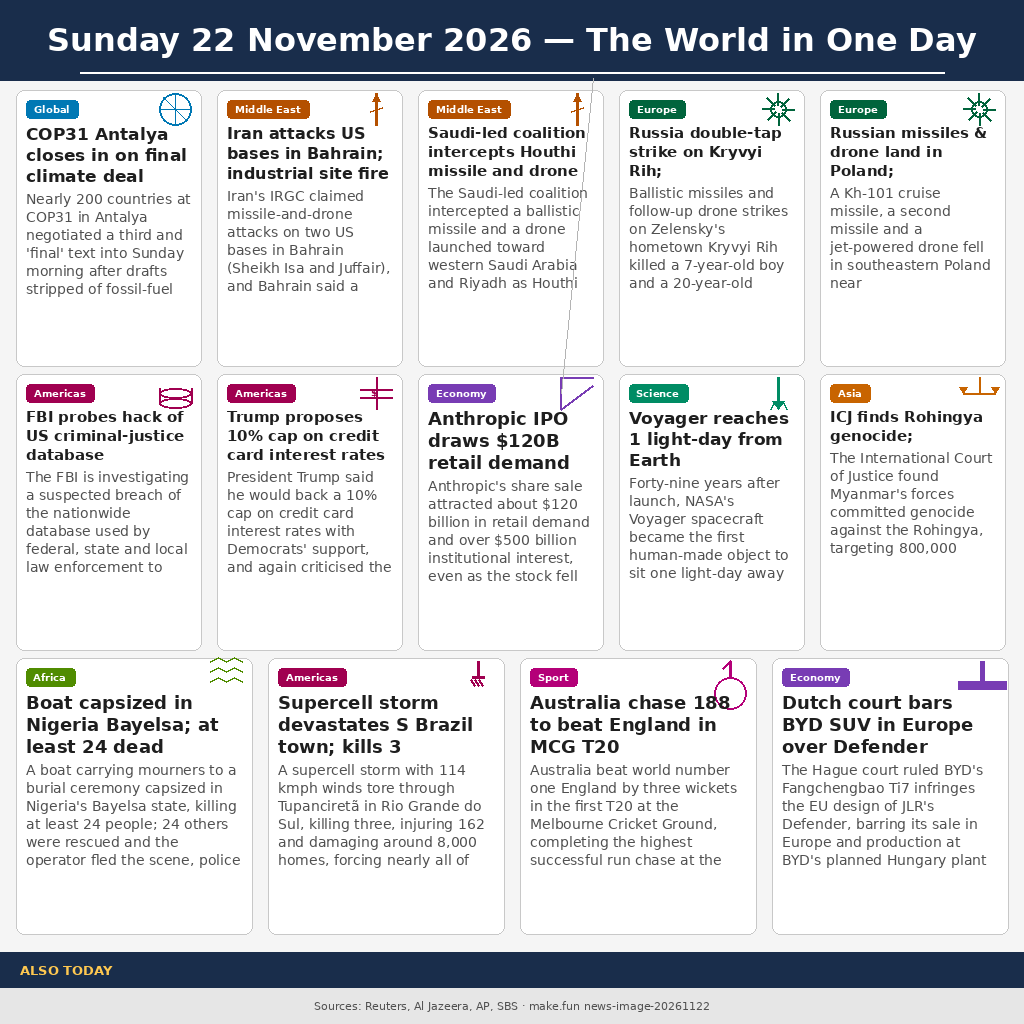
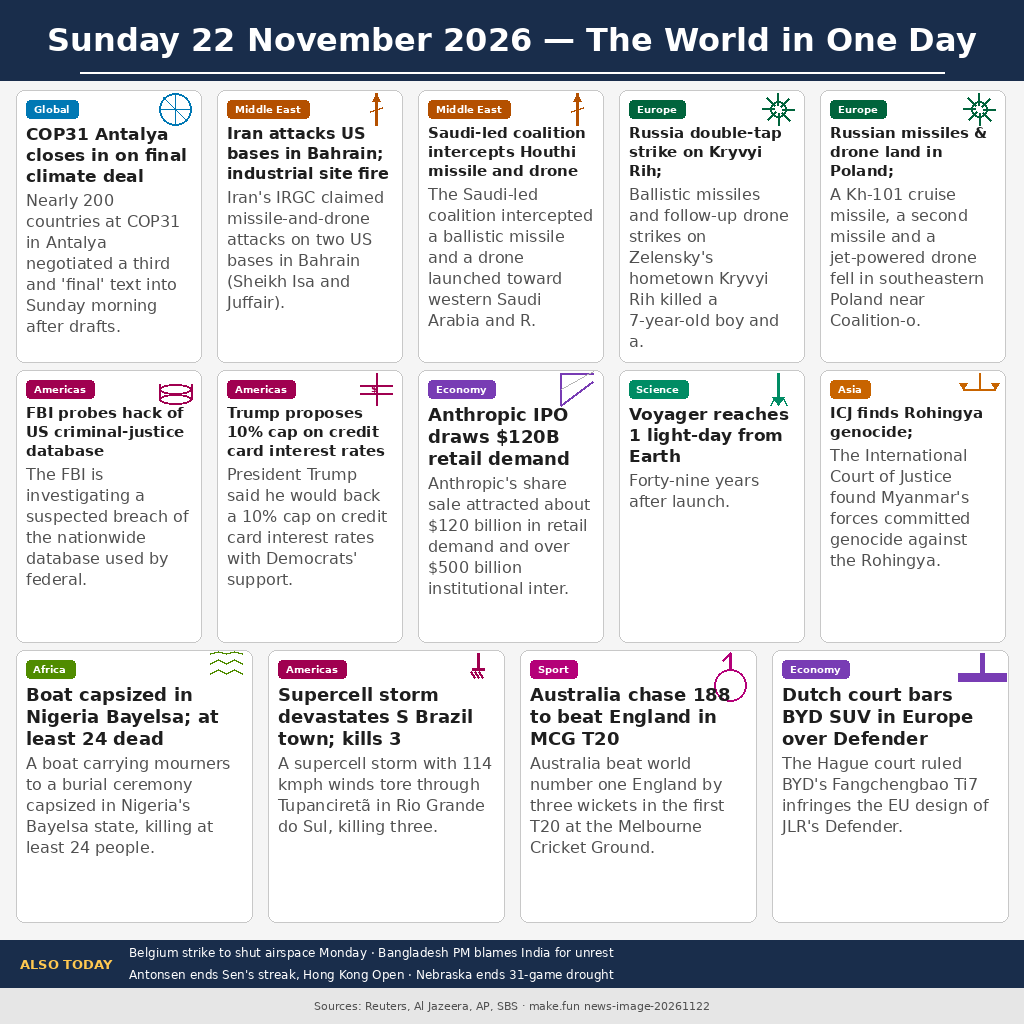
infographic: complete facts, fill also-today band, fix stray line

diff --git a/draw.py b/draw.py
@@ -6,6 +6,7 @@ Renders to entry.png at exactly 1024x1024.
 
 from PIL import Image, ImageDraw, ImageFont
 import json
+import re
 
 # Canvas
 W, H = 1024, 1024
@@ -27,6 +28,7 @@ font_headline_15 = load_font("/usr/share/fonts/truetype/dejavu/DejaVuSans-Bold.t
 font_fact_16 = load_font("/usr/share/fonts/truetype/dejavu/DejaVuSans.ttf", 16)
 font_fact_15 = load_font("/usr/share/fonts/truetype/dejavu/DejaVuSans.ttf", 15)
 font_fact_14 = load_font("/usr/share/fonts/truetype/dejavu/DejaVuSans.ttf", 14)
+font_fact_13 = load_font("/usr/share/fonts/truetype/dejavu/DejaVuSans.ttf", 13)
 font_region = load_font("/usr/share/fonts/truetype/dejavu/DejaVuSans-Bold.ttf", 10)
 font_ticker = load_font("/usr/share/fonts/truetype/dejavu/DejaVuSans-Bold.ttf", 13)
 font_ticker_text = load_font("/usr/share/fonts/truetype/dejavu/DejaVuSans.ttf", 12)
@@ -159,39 +161,90 @@ def truncate_at_clauses(draw, text, font, max_width, max_lines):
     
     return text[:50]
 
-def fit_fact(draw, text, max_width, max_lines):
-    """Fit fact text, trying fonts from 16 down to 14."""
+def build_fact_from_summary(draw, summary, font, max_width, max_lines, max_chars=110):
+    """
+    Build a complete fact from summary_1line:
+    - Split on clause boundaries (; then ,) to get segments
+    - Build fact from complete segments up to ~110 chars
+    - Ensure it ends with a period
+    - Verify with textbbox it fits in max_lines
+    - If not, shorten at segment boundaries
+    """
+    # First split on semicolons (strong boundaries)
+    segments = re.split(r'(?<=;)\s+', summary.strip())
+    
+    # If only one segment and it's long, split on commas
+    if len(segments) == 1 and len(segments[0]) > max_chars:
+        segments = re.split(r'(?<=,)\s+', segments[0])
+    
+    # Build fact by adding segments until we hit max_chars
+    fact_parts = []
+    for seg in segments:
+        test = " ".join(fact_parts + [seg]).strip()
+        if len(test) <= max_chars:
+            fact_parts.append(seg)
+        else:
+            break
+    
+    if not fact_parts:
+        # Fallback: truncate at max_chars and find last STRONG punctuation
+        if len(summary) > max_chars:
+            truncated = summary[:max_chars]
+            last_punct = max(truncated.rfind('.'), truncated.rfind('!'), truncated.rfind('?'))
+            if last_punct > max_chars * 0.4:
+                fact = truncated[:last_punct+1].strip()
+            else:
+                # No strong punctuation, find any punctuation
+                last_punct = max(truncated.rfind(';'), truncated.rfind(':'), truncated.rfind(','))
+                if last_punct > max_chars * 0.4:
+                    fact = truncated[:last_punct].strip() + "."
+                else:
+                    fact = truncated.strip() + "."
+        else:
+            fact = summary.strip()
+    else:
+        fact = " ".join(fact_parts).strip()
+    
+    # Ensure it ends with a period (replace trailing comma/semicolon/colon with period)
+    fact = fact.rstrip()
+    if fact.endswith((',', ';', ':')):
+        fact = fact[:-1] + "."
+    elif not fact.endswith(('.', '!', '?')):
+        fact = fact + "."
+    
+    # Now verify it fits with textbbox, trying fonts from 16 down to 13
     fonts = [
         (16, font_fact_16, 21),
         (15, font_fact_15, 19),
         (14, font_fact_14, 18),
+        (13, font_fact_13, 17),
     ]
-    for size, font, line_h in fonts:
-        if can_text_fit(draw, text, font, max_width, max_lines):
-            lines = wrap_text_full(draw, text, font, max_width, max_lines)
-            return lines, font, line_h
-    # Fallback
-    lines = wrap_text_full(draw, text, font_fact_14, max_width, max_lines)
-    return lines, font_fact_14, 18
-
-def clean_fact(text):
-    """Remove trailing dangling & or , and ensure complete thought."""
-    text = text.strip()
-    # Remove trailing & or ,
-    while text.endswith(('&', ',', ';')):
-        text = text[:-1].strip()
-    # If it ends mid-sentence without punctuation, find last comma/semicolon to end cleanly
-    if text and text[-1] not in '.!?':
-        last_comma = text.rfind(',')
-        last_semi = text.rfind(';')
-        cut = max(last_comma, last_semi)
-        if cut > len(text) * 0.6:  # Only cut if we keep most of the text
-            text = text[:cut].strip()
-    return text
+    
+    for size, f, line_h in fonts:
+        if can_text_fit(draw, fact, f, max_width, max_lines):
+            lines = wrap_text_full(draw, fact, f, max_width, max_lines)
+            return lines, f, line_h
+    
+    # If still doesn't fit, shorten at segment boundaries until it does
+    while fact_parts:
+        fact = " ".join(fact_parts).strip()
+        # Ensure period ending
+        if fact.endswith((',', ';', ':')):
+            fact = fact[:-1] + "."
+        elif not fact.endswith(('.', '!', '?')):
+            fact = fact + "."
+        if can_text_fit(draw, fact, font_fact_13, max_width, max_lines):
+            lines = wrap_text_full(draw, fact, font_fact_13, max_width, max_lines)
+            return lines, font_fact_13, 17
+        fact_parts.pop()
+    
+    # Ultimate fallback
+    fallback = "Developing story."
+    lines = wrap_text_full(draw, fallback, font_fact_13, max_width, max_lines)
+    return lines, font_fact_13, 17
 
 def shorten_headline(text):
     """Shorten headline by dropping trailing clauses at comma/colon, never mid-word."""
-    # Pre-shortened headlines that fit well in 3 lines at 15pt within 165px
     replacements = {
         "COP31 in Antalya closes in on final climate deal after overtime": "COP31 Antalya closes in on final climate deal",
         "Iran attacks US bases in Bahrain; industrial site fire": "Iran attacks US bases in Bahrain; industrial site fire",
@@ -227,73 +280,110 @@ def get_symbol(headline, region):
     if "byd" in h or "court" in h or "defender" in h: return "gavel"
     return "pin"
 
-def draw_symbol(draw, cx, cy, symbol_type, color, size=32):
+def draw_symbol_clipped(draw, cx, cy, symbol_type, color, size, card_rect):
+    """
+    Draw symbol with all coordinates clipped to card_rect.
+    card_rect = (x1, y1, x2, y2) - the card's bounding box.
+    """
+    # Clip helper
+    def clip_x(x):
+        return max(card_rect[0], min(card_rect[2], x))
+    def clip_y(y):
+        return max(card_rect[1], min(card_rect[3], y))
+    def clip_pt(pt):
+        return (clip_x(pt[0]), clip_y(pt[1]))
+    
     s = size // 2
+    cx_c = clip_x(cx)
+    cy_c = clip_y(cy)
+    
     if symbol_type == "globe":
-        draw.ellipse([cx-s, cy-s, cx+s, cy+s], outline=color, width=2)
-        draw.line([(cx, cy-s), (cx, cy+s)], fill=color, width=1)
-        draw.line([(cx-s, cy), (cx+s, cy)], fill=color, width=1)
-        draw.line([(cx-s*0.7, cy-s*0.7), (cx+s*0.7, cy+s*0.7)], fill=color, width=1)
+        # Ellipse and cross lines - clip each coordinate
+        x1, y1 = clip_x(cx_c - s), clip_y(cy_c - s)
+        x2, y2 = clip_x(cx_c + s), clip_y(cy_c + s)
+        draw.ellipse([x1, y1, x2, y2], outline=color, width=2)
+        draw.line([clip_pt((cx_c, cy_c - s)), clip_pt((cx_c, cy_c + s))], fill=color, width=1)
+        draw.line([clip_pt((cx_c - s, cy_c)), clip_pt((cx_c + s, cy_c))], fill=color, width=1)
+        draw.line([clip_pt((cx_c - s*0.7, cy_c - s*0.7)), clip_pt((cx_c + s*0.7, cy_c + s*0.7))], fill=color, width=1)
     elif symbol_type == "missile":
-        draw.line([(cx, cy-s), (cx, cy+s)], fill=color, width=3)
-        draw.polygon([(cx, cy-s), (cx-4, cy-s+8), (cx+4, cy-s+8)], fill=color)
-        draw.line([(cx-6, cy+2), (cx+6, cy-2)], fill=color, width=2)
+        # Vertical line
+        draw.line([clip_pt((cx_c, cy_c - s)), clip_pt((cx_c, cy_c + s))], fill=color, width=3)
+        # Tip triangle
+        p1 = clip_pt((cx_c, cy_c - s))
+        p2 = clip_pt((cx_c - 4, cy_c - s + 8))
+        p3 = clip_pt((cx_c + 4, cy_c - s + 8))
+        draw.polygon([p1, p2, p3], fill=color)
+        # Diagonal line - THIS WAS THE STRAY LINE - now clipped
+        draw.line([clip_pt((cx_c - 6, cy_c + 2)), clip_pt((cx_c + 6, cy_c - 2))], fill=color, width=2)
     elif symbol_type == "explosion":
         import math
         for angle in [0, 45, 90, 135, 180, 225, 270, 315]:
             rad = math.radians(angle)
-            x1 = cx + int(s * 0.3 * math.cos(rad))
-            y1 = cy + int(s * 0.3 * math.sin(rad))
-            x2 = cx + int(s * math.cos(rad))
-            y2 = cy + int(s * math.sin(rad))
-            draw.line([(x1, y1), (x2, y2)], fill=color, width=2)
-        draw.ellipse([cx-s//2, cy-s//2, cx+s//2, cy+s//2], outline=color, width=2)
+            x1 = cx_c + int(s * 0.3 * math.cos(rad))
+            y1 = cy_c + int(s * 0.3 * math.sin(rad))
+            x2 = cx_c + int(s * math.cos(rad))
+            y2 = cy_c + int(s * math.sin(rad))
+            draw.line([clip_pt((x1, y1)), clip_pt((x2, y2))], fill=color, width=2)
+        draw.ellipse([clip_x(cx_c - s//2), clip_y(cy_c - s//2), clip_x(cx_c + s//2), clip_y(cy_c + s//2)], outline=color, width=2)
     elif symbol_type == "shield":
-        pts = [(cx, cy-s), (cx+s, cy-s//2), (cx+s, cy+s//2), (cx, cy+s), (cx-s, cy+s//2), (cx-s, cy-s//2)]
+        pts = [
+            clip_pt((cx_c, cy_c - s)),
+            clip_pt((cx_c + s, cy_c - s//2)),
+            clip_pt((cx_c + s, cy_c + s//2)),
+            clip_pt((cx_c, cy_c + s)),
+            clip_pt((cx_c - s, cy_c + s//2)),
+            clip_pt((cx_c - s, cy_c - s//2)),
+        ]
         draw.polygon(pts, outline=color, width=2)
-        draw.line([(cx, cy-s//2), (cx, cy+s//2)], fill=color, width=1)
+        draw.line([clip_pt((cx_c, cy_c - s//2)), clip_pt((cx_c, cy_c + s//2))], fill=color, width=1)
     elif symbol_type == "database":
-        draw.ellipse([cx-s, cy-s//3, cx+s, cy+s//3], outline=color, width=2)
-        draw.line([(cx-s, cy-s//3), (cx-s, cy+s//3*2)], fill=color, width=2)
-        draw.line([(cx+s, cy-s//3), (cx+s, cy+s//3*2)], fill=color, width=2)
-        draw.ellipse([cx-s, cy+s//3*2-s//3, cx+s, cy+s//3*2+s//3], outline=color, width=2)
+        draw.ellipse([clip_x(cx_c - s), clip_y(cy_c - s//3), clip_x(cx_c + s), clip_y(cy_c + s//3)], outline=color, width=2)
+        draw.line([clip_pt((cx_c - s, cy_c - s//3)), clip_pt((cx_c - s, cy_c + s//3*2))], fill=color, width=2)
+        draw.line([clip_pt((cx_c + s, cy_c - s//3)), clip_pt((cx_c + s, cy_c + s//3*2))], fill=color, width=2)
+        draw.ellipse([clip_x(cx_c - s), clip_y(cy_c + s//3*2 - s//3), clip_x(cx_c + s), clip_y(cy_c + s//3*2 + s//3)], outline=color, width=2)
     elif symbol_type == "money":
-        draw.line([(cx, cy-s), (cx, cy+s)], fill=color, width=2)
-        draw.line([(cx-s, cy-4), (cx+s, cy-4)], fill=color, width=2)
-        draw.line([(cx-s, cy+4), (cx+s, cy+4)], fill=color, width=2)
-        draw.text((cx-2, cy-1), "$", font=font_region, fill=color, anchor="mm")
+        draw.line([clip_pt((cx_c, cy_c - s)), clip_pt((cx_c, cy_c + s))], fill=color, width=2)
+        draw.line([clip_pt((cx_c - s, cy_c - 4)), clip_pt((cx_c + s, cy_c - 4))], fill=color, width=2)
+        draw.line([clip_pt((cx_c - s, cy_c + 4)), clip_pt((cx_c + s, cy_c + 4))], fill=color, width=2)
+        draw.text((clip_x(cx_c - 2), clip_y(cy_c - 1)), "$", font=font_region, fill=color, anchor="mm")
     elif symbol_type == "chart":
-        draw.line([(cx-s, cy+s), (cx-s, cy-s), (cx+s, cy-s)], fill=color, width=2)
-        draw.line([(cx-s, cy+s), (cx+s, cy-s*0.5)], fill=color, width=2)
-        draw.line([(cx-s, cy), (cx+s, cy*0.2)], fill=(180,180,180), width=1)
+        draw.line([clip_pt((cx_c - s, cy_c + s)), clip_pt((cx_c - s, cy_c - s)), clip_pt((cx_c + s, cy_c - s))], fill=color, width=2)
+        draw.line([clip_pt((cx_c - s, cy_c + s)), clip_pt((cx_c + s, cy_c - s*0.5))], fill=color, width=2)
+        draw.line([clip_pt((cx_c - s, cy_c)), clip_pt((cx_c + s, cy_c * 0.2))], fill=(180,180,180), width=1)
     elif symbol_type == "rocket":
-        draw.line([(cx, cy-s), (cx, cy+s//2)], fill=color, width=3)
-        draw.polygon([(cx-6, cy+s//2), (cx+6, cy+s//2), (cx, cy+s)], fill=color)
-        draw.line([(cx-4, cy+s//2), (cx-8, cy+s)], fill=color, width=2)
-        draw.line([(cx+4, cy+s//2), (cx+8, cy+s)], fill=color, width=2)
+        draw.line([clip_pt((cx_c, cy_c - s)), clip_pt((cx_c, cy_c + s//2))], fill=color, width=3)
+        draw.polygon([clip_pt((cx_c - 6, cy_c + s//2)), clip_pt((cx_c + 6, cy_c + s//2)), clip_pt((cx_c, cy_c + s))], fill=color)
+        draw.line([clip_pt((cx_c - 4, cy_c + s//2)), clip_pt((cx_c - 8, cy_c + s))], fill=color, width=2)
+        draw.line([clip_pt((cx_c + 4, cy_c + s//2)), clip_pt((cx_c + 8, cy_c + s))], fill=color, width=2)
     elif symbol_type == "scale":
-        draw.line([(cx-s, cy), (cx+s, cy)], fill=color, width=2)
-        draw.line([(cx, cy-s), (cx, cy)], fill=color, width=2)
-        draw.polygon([(cx-s, cy), (cx-s+4, cy-6), (cx-s-4, cy-6)], fill=color)
-        draw.polygon([(cx+s, cy), (cx+s-4, cy-6), (cx+s+4, cy-6)], fill=color)
+        draw.line([clip_pt((cx_c - s, cy_c)), clip_pt((cx_c + s, cy_c))], fill=color, width=2)
+        draw.line([clip_pt((cx_c, cy_c - s)), clip_pt((cx_c, cy_c))], fill=color, width=2)
+        draw.polygon([clip_pt((cx_c - s, cy_c)), clip_pt((cx_c - s + 4, cy_c - 6)), clip_pt((cx_c - s - 4, cy_c - 6))], fill=color)
+        draw.polygon([clip_pt((cx_c + s, cy_c)), clip_pt((cx_c + s - 4, cy_c - 6)), clip_pt((cx_c + s + 4, cy_c - 6))], fill=color)
     elif symbol_type == "waves":
         for i in range(3):
-            y_off = cy - s + i * (2*s//3)
-            draw.line([(cx-s, y_off), (cx-s//2, y_off-4), (cx, y_off), (cx+s//2, y_off-4), (cx+s, y_off)], fill=color, width=2)
+            y_off = cy_c - s + i * (2*s//3)
+            draw.line([
+                clip_pt((cx_c - s, y_off)),
+                clip_pt((cx_c - s//2, y_off - 4)),
+                clip_pt((cx_c, y_off)),
+                clip_pt((cx_c + s//2, y_off - 4)),
+                clip_pt((cx_c + s, y_off))
+            ], fill=color, width=2)
     elif symbol_type == "storm":
-        draw.line([(cx, cy-s), (cx, cy)], fill=color, width=3)
-        draw.line([(cx-6, cy), (cx+6, cy)], fill=color, width=3)
+        draw.line([clip_pt((cx_c, cy_c - s)), clip_pt((cx_c, cy_c))], fill=color, width=3)
+        draw.line([clip_pt((cx_c - 6, cy_c)), clip_pt((cx_c + 6, cy_c))], fill=color, width=3)
         for i in range(3):
-            draw.line([(cx-8+i*4, cy+2), (cx-4+i*4, cy+8)], fill=color, width=2)
+            draw.line([clip_pt((cx_c - 8 + i*4, cy_c + 2)), clip_pt((cx_c - 4 + i*4, cy_c + 8))], fill=color, width=2)
     elif symbol_type == "cricket":
-        draw.ellipse([cx-s, cy, cx+s, cy+2*s], outline=color, width=2)
-        draw.line([(cx, cy), (cx, cy-s)], fill=color, width=3)
-        draw.line([(cx, cy-s), (cx-8, cy-s//2)], fill=color, width=2)
+        draw.ellipse([clip_x(cx_c - s), clip_y(cy_c), clip_x(cx_c + s), clip_y(cy_c + 2*s)], outline=color, width=2)
+        draw.line([clip_pt((cx_c, cy_c)), clip_pt((cx_c, cy_c - s))], fill=color, width=3)
+        draw.line([clip_pt((cx_c, cy_c - s)), clip_pt((cx_c - 8, cy_c - s//2))], fill=color, width=2)
     elif symbol_type == "gavel":
-        draw.rectangle([cx-2, cy-s, cx+2, cy+s//2], fill=color)
-        draw.rectangle([cx-s*1.5, cy+s//2-4, cx+s*1.5, cy+s//2+4], fill=color)
+        draw.rectangle([clip_x(cx_c - 2), clip_y(cy_c - s), clip_x(cx_c + 2), clip_y(cy_c + s//2)], fill=color)
+        draw.rectangle([clip_x(cx_c - s*1.5), clip_y(cy_c + s//2 - 4), clip_x(cx_c + s*1.5), clip_y(cy_c + s//2 + 4)], fill=color)
     else:
-        draw.ellipse([cx-s//2, cy-s//2, cx+s//2, cy+s//2], fill=color)
+        draw.ellipse([clip_x(cx_c - s//2), clip_y(cy_c - s//2), clip_x(cx_c + s//2), clip_y(cy_c + s//2)], fill=color)
 
 # Load stories
 with open("/root/makefun/news-image-20261122/data-news.json") as f:
@@ -303,7 +393,7 @@ stories = []
 for s in raw_stories:
     stories.append({
         "headline": shorten_headline(s["headline"]),
-        "fact": clean_fact(s["summary_1line"]),
+        "summary_1line": s["summary_1line"],
         "symbol": get_symbol(s["headline"], s["region"]),
         "region": s["region"],
     })
@@ -311,7 +401,7 @@ for s in raw_stories:
 # Layout dimensions
 masthead_h = 80
 footer_h = 36
-ticker_h = 36
+ticker_h = 48  # Increased to accommodate two rows if needed
 margin_x = 16
 margin_y = 8
 
@@ -370,11 +460,12 @@ for row_idx, num_cards in enumerate(row_counts):
         draw_rounded_rect(draw, (inner_x, inner_y, inner_x + tag_w, inner_y + tag_h), 4, fill=rcolor)
         draw.text((inner_x + tag_w // 2, inner_y + tag_h // 2), tag_text, font=font_region, fill=(255,255,255), anchor="mm")
         
-        # Symbol (top-right) - larger 32px
+        # Symbol (top-right) - larger 32px, clipped to card
         sym_size = 32
         sym_x = x + card_w - pad - sym_size // 2
         sym_y = y + pad + tag_h // 2
-        draw_symbol(draw, sym_x, sym_y, story["symbol"], rcolor, size=sym_size)
+        card_rect = (x + 1, y + 1, x + card_w - 1, y + card_h - 1)  # Card bounds with 1px margin
+        draw_symbol_clipped(draw, sym_x, sym_y, story["symbol"], rcolor, size=sym_size, card_rect=card_rect)
         
         # Headline area - starts below tag
         headline_y = inner_y + tag_h + 6
@@ -387,28 +478,30 @@ for row_idx, num_cards in enumerate(row_counts):
         for li, line in enumerate(headline_lines):
             draw.text((inner_x, headline_y + li * line_h), line, font=used_font, fill=COLOR_TEXT)
         
-        # Fact area - use remaining space, up to 6 lines
+        # Fact area - use remaining space, up to 8 lines
         fact_y = headline_y + len(headline_lines) * line_h + 4
         fact_max_h = inner_y + inner_h - fact_y
-        max_fact_lines = min(6, max(2, fact_max_h // 20))
+        max_fact_lines = min(8, max(2, fact_max_h // 18))
         
-        # Fit fact in available lines, font 16 down to 14
-        fact_lines, fact_font, fact_line_h = fit_fact(draw, story["fact"], headline_max_w, max_fact_lines)
+        # Build fact from summary_1line - complete clauses, ~110 chars, verify fit
+        fact_lines, fact_font, fact_line_h = build_fact_from_summary(
+            draw, story["summary_1line"], font_fact_16, headline_max_w, max_fact_lines
+        )
         
         for li, line in enumerate(fact_lines):
             draw.text((inner_x, fact_y + li * fact_line_h), line, font=fact_font, fill=COLOR_TEXT_MUTED)
         
         card_index += 1
 
-# Ticker band: "ALSO TODAY" + 4 one-liners
+# Ticker band: "ALSO TODAY" + 4 one-liners (may use 1 or 2 rows)
 ticker_y = H - footer_h - ticker_h
 draw_rounded_rect(draw, (0, ticker_y, W, ticker_y + ticker_h), 0, fill=COLOR_TICKER_BG)
 
 ticker_items = [
-    "Belgium national strike to shut airspace Monday",
-    "Bangladesh PM blames India for fresh unrest",
-    "Antonsen ends Sen's 13-match streak, Hong Kong Open",
-    "Nebraska ends 31-game top-25 drought, beats Ohio State"
+    "Belgium strike to shut airspace Monday",
+    "Bangladesh PM blames India for unrest",
+    "Antonsen ends Sen's streak, Hong Kong Open",
+    "Nebraska ends 31-game drought"
 ]
 
 label = "ALSO TODAY"
@@ -418,15 +511,29 @@ label_x = 20
 label_y = ticker_y + ticker_h // 2
 draw.text((label_x, label_y), label, font=font_ticker, fill=COLOR_TICKER_LABEL, anchor="lm")
 
-# Items to the right of label
+# Items to the right of label - try one row, fallback to two rows
 items_text = " · ".join(ticker_items)
 items_x = label_x + label_w + 16
 items_max_w = W - items_x - 20
 
-# Fit items in one line
 if can_text_fit(draw, items_text, font_ticker_text, items_max_w, 1):
     items_lines = wrap_text_full(draw, items_text, font_ticker_text, items_max_w, 1)
     draw.text((items_x, label_y), items_lines[0], font=font_ticker_text, fill=COLOR_TICKER_TEXT, anchor="lm")
+else:
+    # Two rows: split items into two groups
+    half = len(ticker_items) // 2
+    row1_text = " · ".join(ticker_items[:half])
+    row2_text = " · ".join(ticker_items[half:])
+    
+    row1_y = ticker_y + 12
+    row2_y = ticker_y + 34
+    
+    if can_text_fit(draw, row1_text, font_ticker_text, items_max_w, 1):
+        row1_lines = wrap_text_full(draw, row1_text, font_ticker_text, items_max_w, 1)
+        draw.text((items_x, row1_y), row1_lines[0], font=font_ticker_text, fill=COLOR_TICKER_TEXT, anchor="lm")
+    if can_text_fit(draw, row2_text, font_ticker_text, items_max_w, 1):
+        row2_lines = wrap_text_full(draw, row2_text, font_ticker_text, items_max_w, 1)
+        draw.text((items_x, row2_y), row2_lines[0], font=font_ticker_text, fill=COLOR_TICKER_TEXT, anchor="lm")
 
 # Footer
 footer_y = H - footer_h
